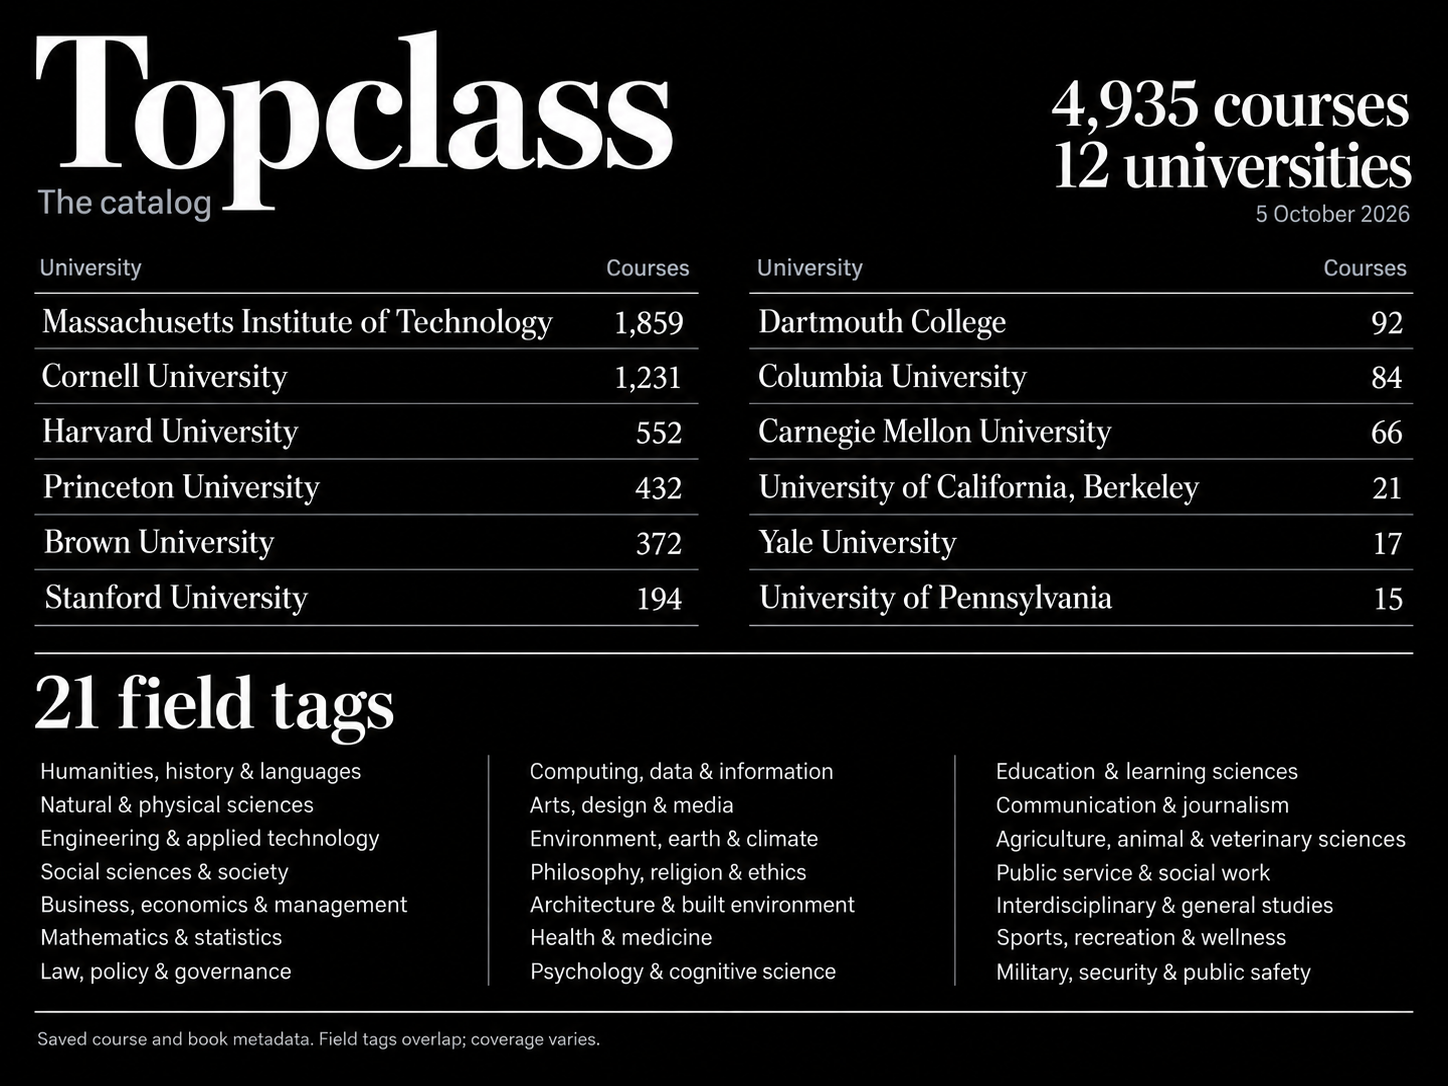
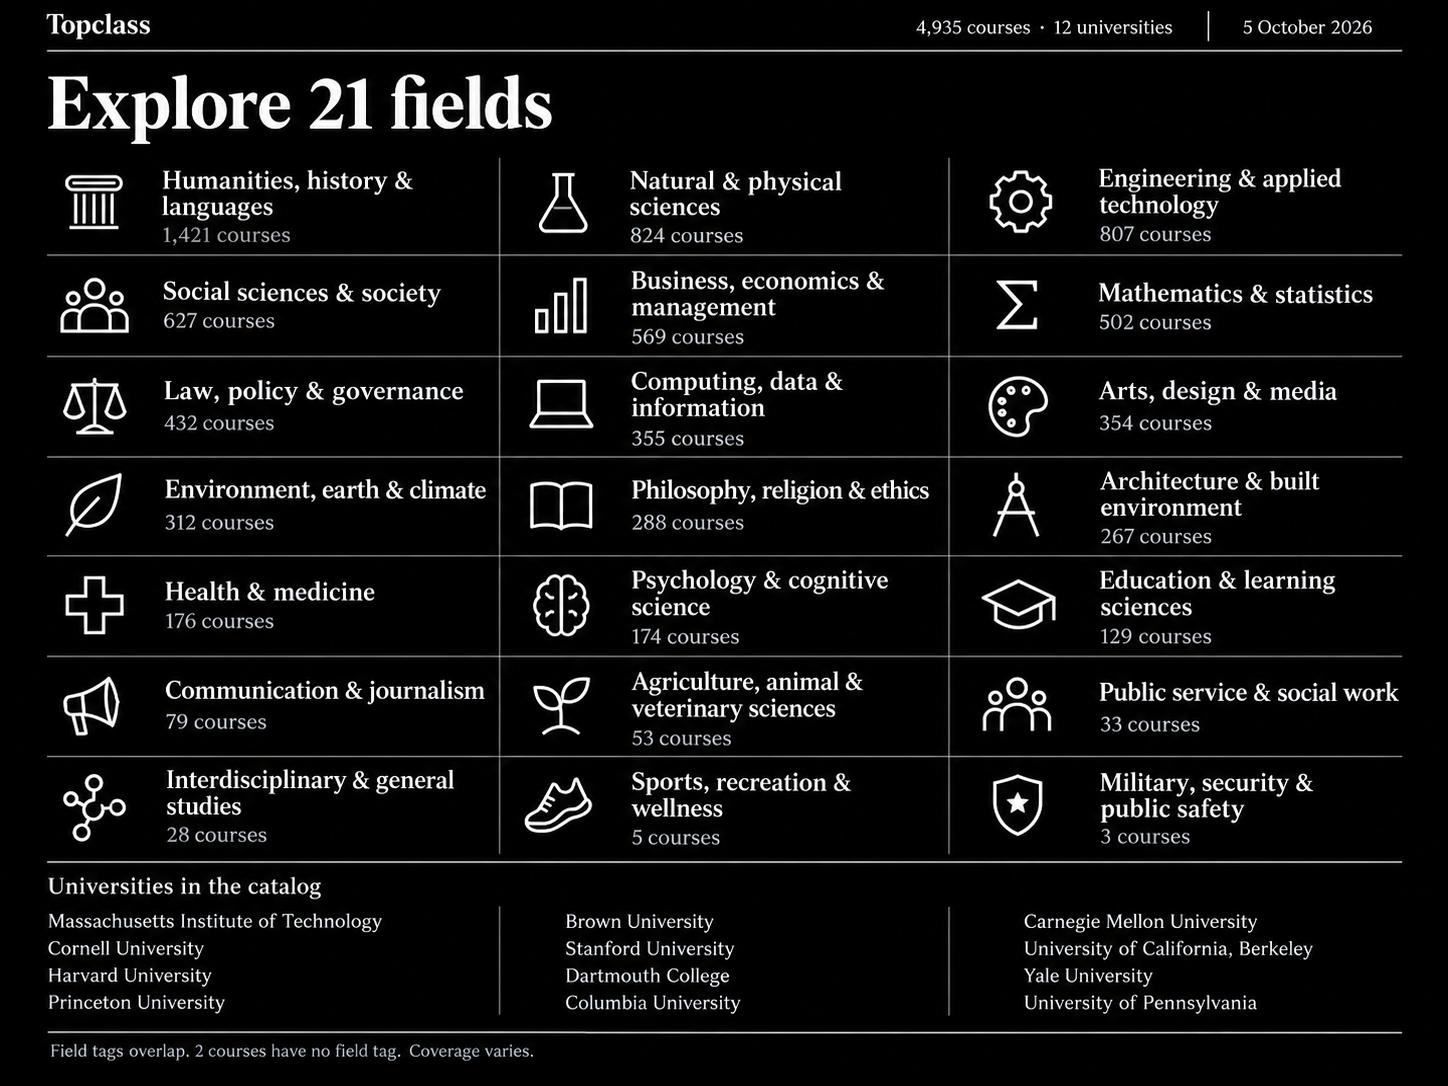
Put fields first in catalog visual

Changed region(s): [[0.0, 0.0, 0.9945, 0.9724]]

diff --git a/scripts/distribution.py b/scripts/distribution.py
@@ -302,7 +302,7 @@ Text and page images go to Google for embeddings. Your Google account controls q
 
 ## Catalog and license
 
-![Topclass catalog: course counts for all 12 universities, with 4,935 courses and 21 field tags.](docs/assets/catalog-overview.png)
+![Topclass catalog: 21 fields with course counts, followed by the 12 universities represented in 4,935 courses.](docs/assets/catalog-overview.png)
 
 [Catalog counts and source data](docs/assets/catalog-fields.json).
 

diff --git a/README.md b/README.md
@@ -59,7 +59,7 @@ Text and page images go to Google for embeddings. Your Google account controls q
 
 ## Catalog and license
 
-![Topclass catalog: course counts for all 12 universities, with 4,935 courses and 21 field tags.](docs/assets/catalog-overview.png)
+![Topclass catalog: 21 fields with course counts, followed by the 12 universities represented in 4,935 courses.](docs/assets/catalog-overview.png)
 
 [Catalog counts and source data](docs/assets/catalog-fields.json).
 
